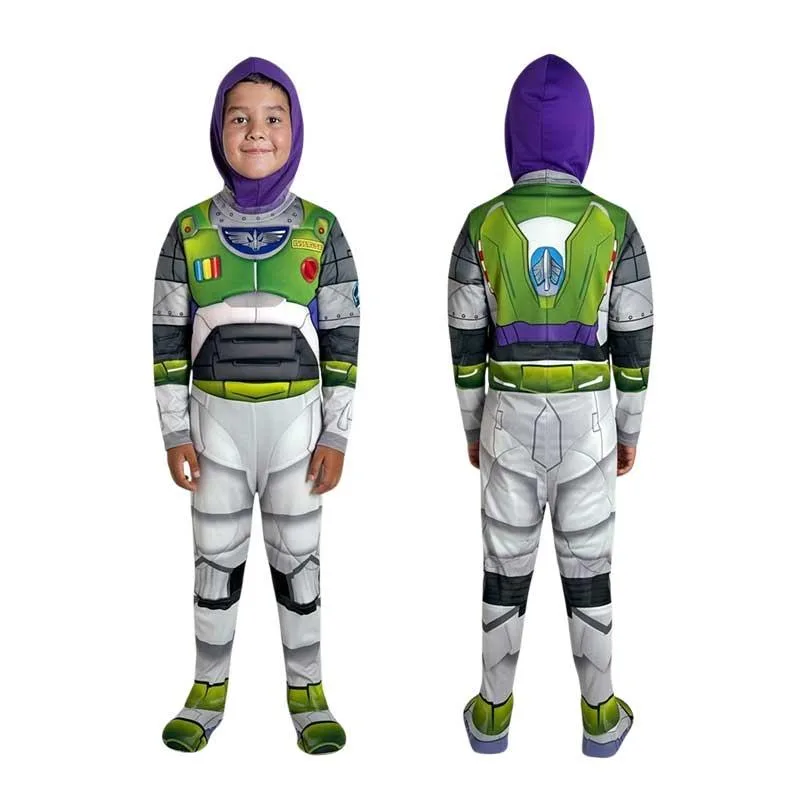
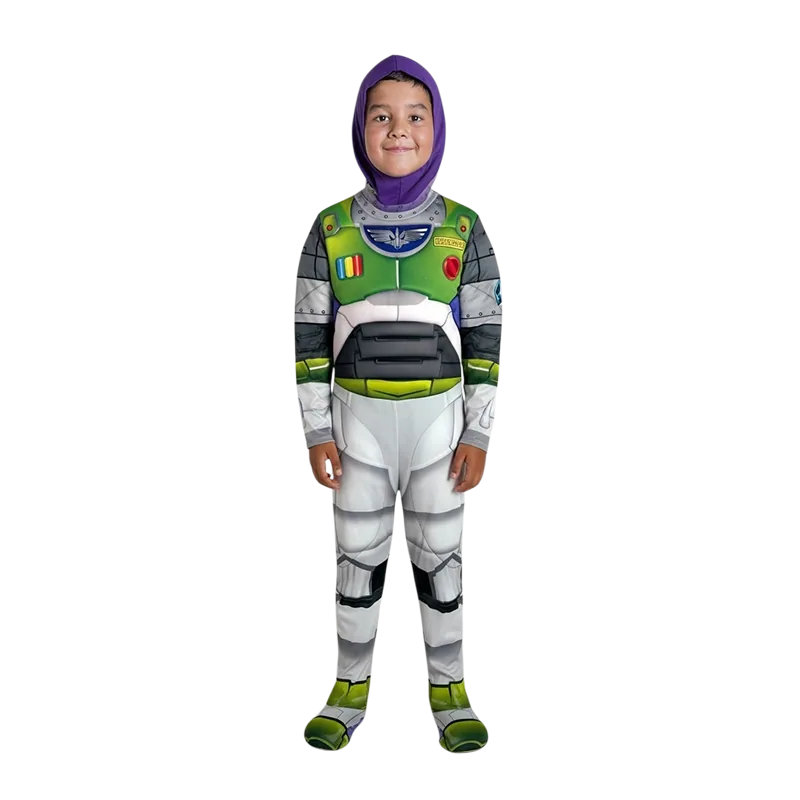
PDP: galería multi-imagen + zoom con lupa + upgrade fotográfico lote "super"
Lote 1 (Súper Acolchado, 18 productos): sets "Hero recortado" del Drive (alpha
real, 3 ángulos frente/espalda/detalle) → WebP q82 en public/images/products/.
catalogo.json: imagenes[] con las 3 por producto. Se eliminan los 12
-super-acolchado.webp viejos.

Galería en la PDP (app/pages/producto/[slug].vue):
- Miniaturas solo si imagenes.length > 1; clic cambia la imagen principal.
- Miniatura activa con borde morado; foco visible turquesa; aria-label
  "Ver ángulo N de <producto>" + aria-pressed.
- Fade suave al cambiar, desactivado con prefers-reduced-motion.
- Mobile: fila horizontal scrolleable. 1 sola imagen => sin miniaturas.

Zoom con lupa (inner-zoom) sobre la imagen ACTIVA:
- Desktop: la imagen escala ~2.3x siguiendo el cursor (transform-origin).
- Solo con hover real (matchMedia hover/pointer:fine); en táctil no se activa.
- Aplica al ángulo activo (cambia con las miniaturas); transición desactivada
  con prefers-reduced-motion.

No se tocó precio, tallas, carrito ni drawer (el carrito sigue usando imagen[0]).

diff --git a/app/pages/producto/[slug].vue b/app/pages/producto/[slug].vue
@@ -29,6 +29,42 @@ const savings = computed(() => {
 })
 const currentImage = computed(() => product.value?.images?.[0])
 
+// ---------- galería multi-imagen ----------
+// currentImage (imagen [0]) sigue siendo la del carrito; la galería tiene su
+// propio índice para no tocar el carrito ni el resto de la PDP.
+const galleryImages = computed(() => product.value?.images ?? [])
+const activeIndex = ref(0)
+const activeImage = computed(() => galleryImages.value[activeIndex.value] ?? currentImage.value)
+const hasGallery = computed(() => galleryImages.value.length > 1)
+// al navegar a otro producto (SPA), volver a la primera imagen
+watch(slug, () => { activeIndex.value = 0 })
+
+// ---------- zoom con lupa (inner-zoom sobre la imagen ACTIVA) ----------
+// Solo en dispositivos con hover real (desktop); en táctil no se activa.
+const ZOOM = 2.3
+const zoomOn = ref(false)
+const zoomPos = ref({ x: 50, y: 50 })
+const canHover = ref(false)
+onMounted(() => {
+  canHover.value = window.matchMedia('(hover: hover) and (pointer: fine)').matches
+})
+function onZoomEnter() { if (canHover.value) zoomOn.value = true }
+function onZoomLeave() { zoomOn.value = false }
+function onZoomMove(e: MouseEvent) {
+  if (!zoomOn.value) return
+  const r = (e.currentTarget as HTMLElement).getBoundingClientRect()
+  const x = Math.min(100, Math.max(0, ((e.clientX - r.left) / r.width) * 100))
+  const y = Math.min(100, Math.max(0, ((e.clientY - r.top) / r.height) * 100))
+  zoomPos.value = { x, y }
+}
+// se aplica a la imagen que esté activa en la galería (cambia con las miniaturas).
+// Se mantiene el transform-origin también al salir para que el zoom-out cierre
+// en el mismo punto (sin salto al centro).
+const zoomStyle = computed(() => ({
+  transform: zoomOn.value ? `scale(${ZOOM})` : 'scale(1)',
+  transformOrigin: `${zoomPos.value.x}% ${zoomPos.value.y}%`,
+}))
+
 // ---------- enlace cruzado Súper <-> Línea Entrada ----------
 // Las líneas son productos SEPARADOS (decisión del cliente); si este producto
 // tiene par, se ofrece un enlace discreto a la otra versión.
@@ -97,20 +133,47 @@ const perks = [
     <div class="pdp__top">
       <!-- ===================== GALERÍA ===================== -->
       <div class="gallery">
-        <div class="gallery__main">
+        <div
+          class="gallery__main"
+          :class="{ 'gallery__main--zoom': zoomOn }"
+          @mouseenter="onZoomEnter"
+          @mouseleave="onZoomLeave"
+          @mousemove="onZoomMove"
+        >
           <!-- fit inside: las fotos no cuadradas muestran el disfraz COMPLETO
-               (la galería usa object-fit contain sobre fondo blanco) -->
-          <NuxtImg
-            v-if="currentImage"
-            :src="currentImage"
-            :alt="product.name"
-            class="gallery__photo"
-            width="800"
-            height="800"
-            fit="inside"
-          />
-          <PhotoPlaceholder v-else :caption="`[ ${product.name} ]`" />
+               (la galería usa object-fit contain sobre fondo blanco).
+               Zoom inner: la imagen activa escala siguiendo el cursor (desktop). -->
+          <Transition name="gfade" mode="out-in">
+            <NuxtImg
+              v-if="activeImage"
+              :key="activeImage"
+              :src="activeImage"
+              :alt="product.name"
+              class="gallery__photo"
+              :style="zoomStyle"
+              width="800"
+              height="800"
+              fit="inside"
+            />
+            <PhotoPlaceholder v-else key="ph" :caption="`[ ${product.name} ]`" />
+          </Transition>
         </div>
+
+        <!-- miniaturas: solo si el producto tiene más de 1 ángulo -->
+        <ul v-if="hasGallery" class="thumbs" aria-label="Ángulos del producto">
+          <li v-for="(img, i) in galleryImages" :key="img" class="thumbs__item">
+            <button
+              type="button"
+              class="thumb"
+              :class="{ 'thumb--active': i === activeIndex }"
+              :aria-label="`Ver ángulo ${i + 1} de ${product.name}`"
+              :aria-pressed="i === activeIndex"
+              @click="activeIndex = i"
+            >
+              <NuxtImg :src="img" alt="" class="thumb__img" width="120" height="120" fit="inside" />
+            </button>
+          </li>
+        </ul>
       </div>
 
       <!-- ===================== INFO ===================== -->
@@ -209,6 +272,56 @@ const perks = [
   height: 100%;
   object-fit: contain;
   display: block;
+  transition: transform 0.15s ease;
+}
+/* zoom con lupa: solo donde hay hover real (desktop); en táctil no aplica */
+@media (hover: hover) and (pointer: fine) {
+  .gallery__main--zoom { cursor: zoom-in; }
+}
+/* ---------- miniaturas ---------- */
+.thumbs {
+  list-style: none;
+  padding: 0;
+  margin: var(--space-3) 0 0;
+  display: flex;
+  gap: var(--space-3);
+  flex-wrap: wrap;
+}
+.thumbs__item { margin: 0; }
+.thumb {
+  width: 84px;
+  height: 84px;
+  padding: 0;
+  border-radius: var(--r-md);
+  border: 2px solid var(--line);
+  background: #fff;
+  cursor: pointer;
+  overflow: hidden;
+  display: block;
+  transition: border-color 0.15s ease;
+}
+.thumb:hover { border-color: var(--line-2); }
+.thumb--active { border-color: var(--purple); }
+.thumb:focus-visible {
+  outline: 3px solid var(--turq);
+  outline-offset: 2px;
+}
+.thumb__img {
+  width: 100%;
+  height: 100%;
+  object-fit: contain;
+  display: block;
+}
+/* fade suave al cambiar la imagen principal */
+.gfade-enter-active,
+.gfade-leave-active { transition: opacity 0.18s ease; }
+.gfade-enter-from,
+.gfade-leave-to { opacity: 0; }
+@media (prefers-reduced-motion: reduce) {
+  .gfade-enter-active,
+  .gfade-leave-active { transition: none; }
+  .thumb { transition: none; }
+  .gallery__photo { transition: none; }
 }
 /* ---------- info ---------- */
 .info__cat {
@@ -357,5 +470,14 @@ const perks = [
 @media (max-width: 900px) {
   .pdp__top { grid-template-columns: 1fr; gap: var(--space-5); }
   .rel__grid { grid-template-columns: repeat(2, 1fr); }
+  /* miniaturas en fila horizontal scrolleable bajo la imagen principal */
+  .thumbs {
+    flex-wrap: nowrap;
+    overflow-x: auto;
+    -webkit-overflow-scrolling: touch;
+    padding-bottom: var(--space-2);
+    scrollbar-width: thin;
+  }
+  .thumb { flex: 0 0 auto; }
 }
 </style>
